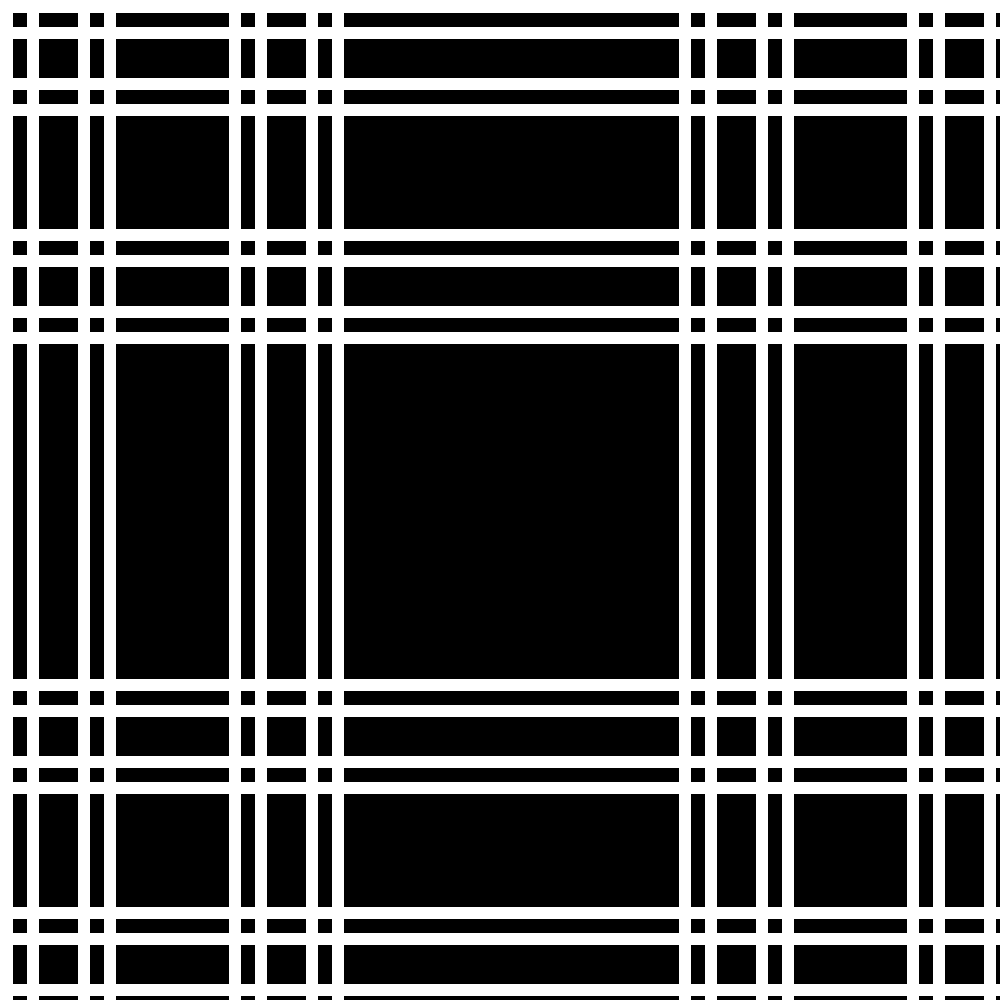
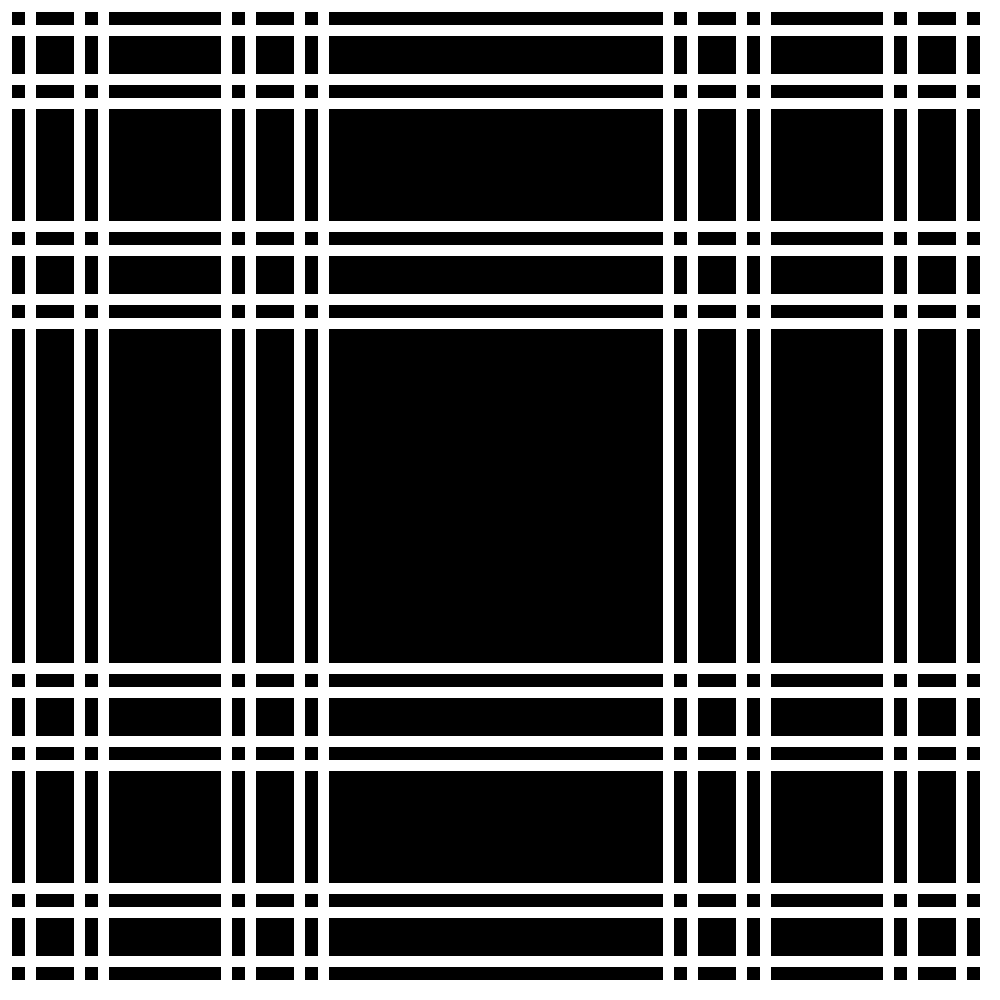
Fixed the weird offset of images by using the floor function when creating a single fractal string as opposed to the ceiling

diff --git a/SimilarFractalString.py b/SimilarFractalString.py
@@ -80,10 +80,10 @@ class SelfSimilarFractalString:
         else:
             for sRatio in self.Iterations[iteration]:
                 if sRatio.Type == fsType.Ratio :
-                    max += int(np.ceil(sRatio.Value))
+                    max += int(np.floor(sRatio.Value))
                 elif sRatio.Type == fsType.Gap :
                     #For the Fractal String we keep the gaps, not the ratios
-                    next_max = max + int(np.ceil(sRatio.Value))
+                    next_max = max + int(np.floor(sRatio.Value))
                     fstring.extend(range(max, next_max + 1))
                     max = next_max
         return fstring
